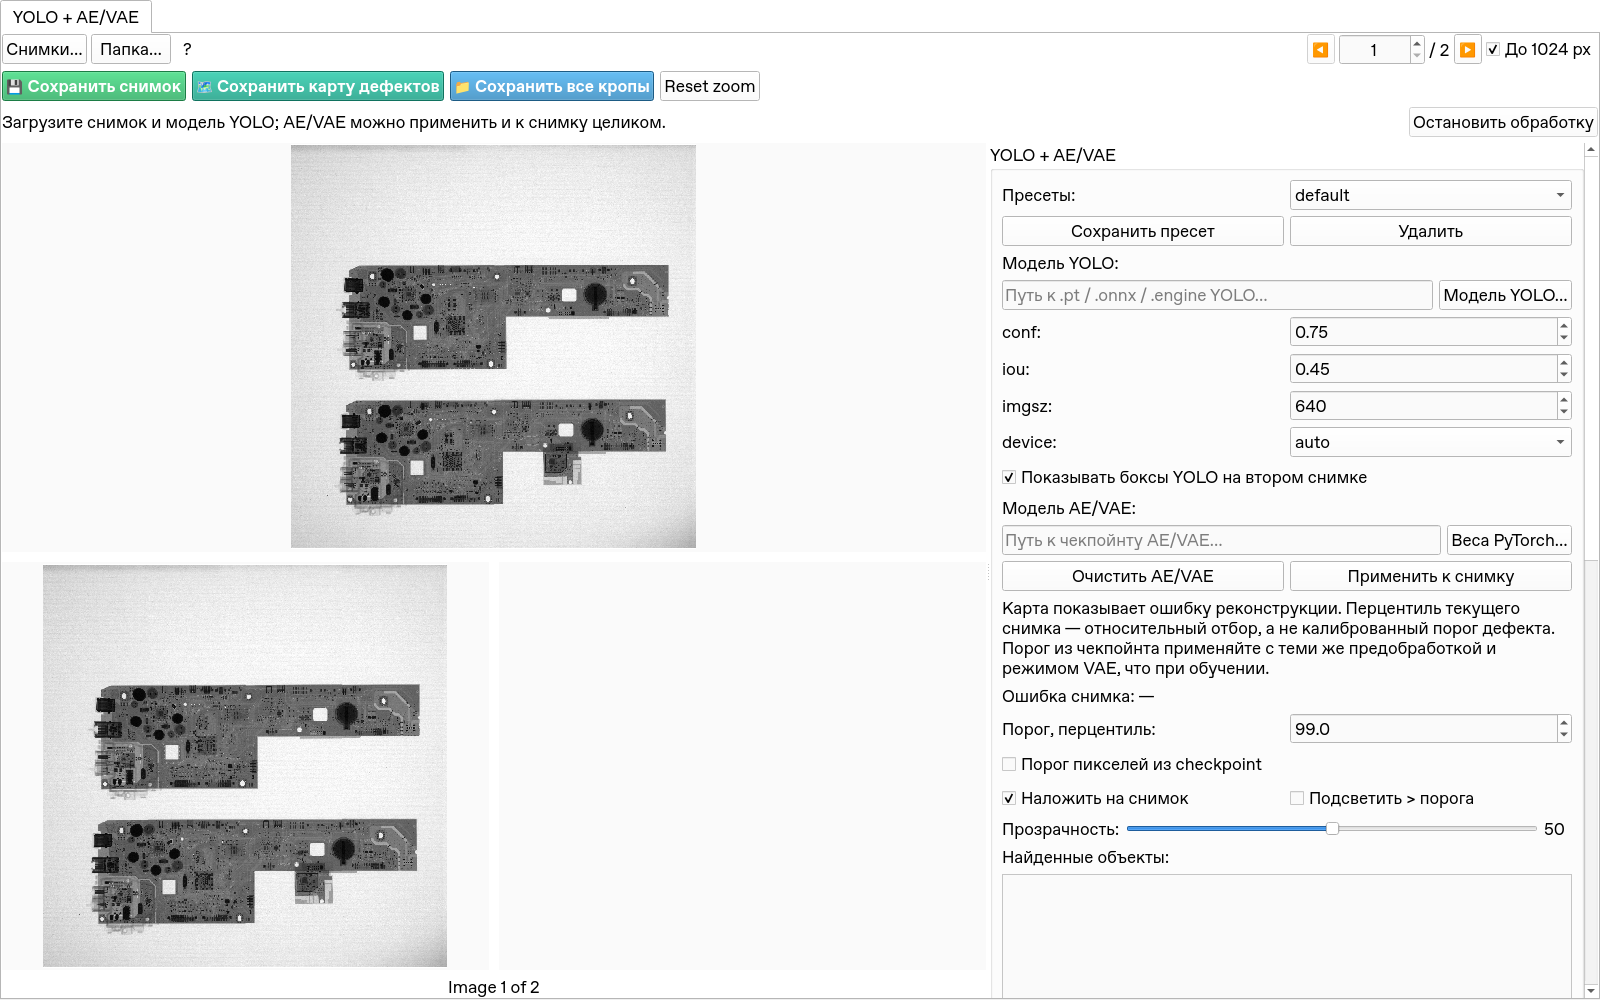
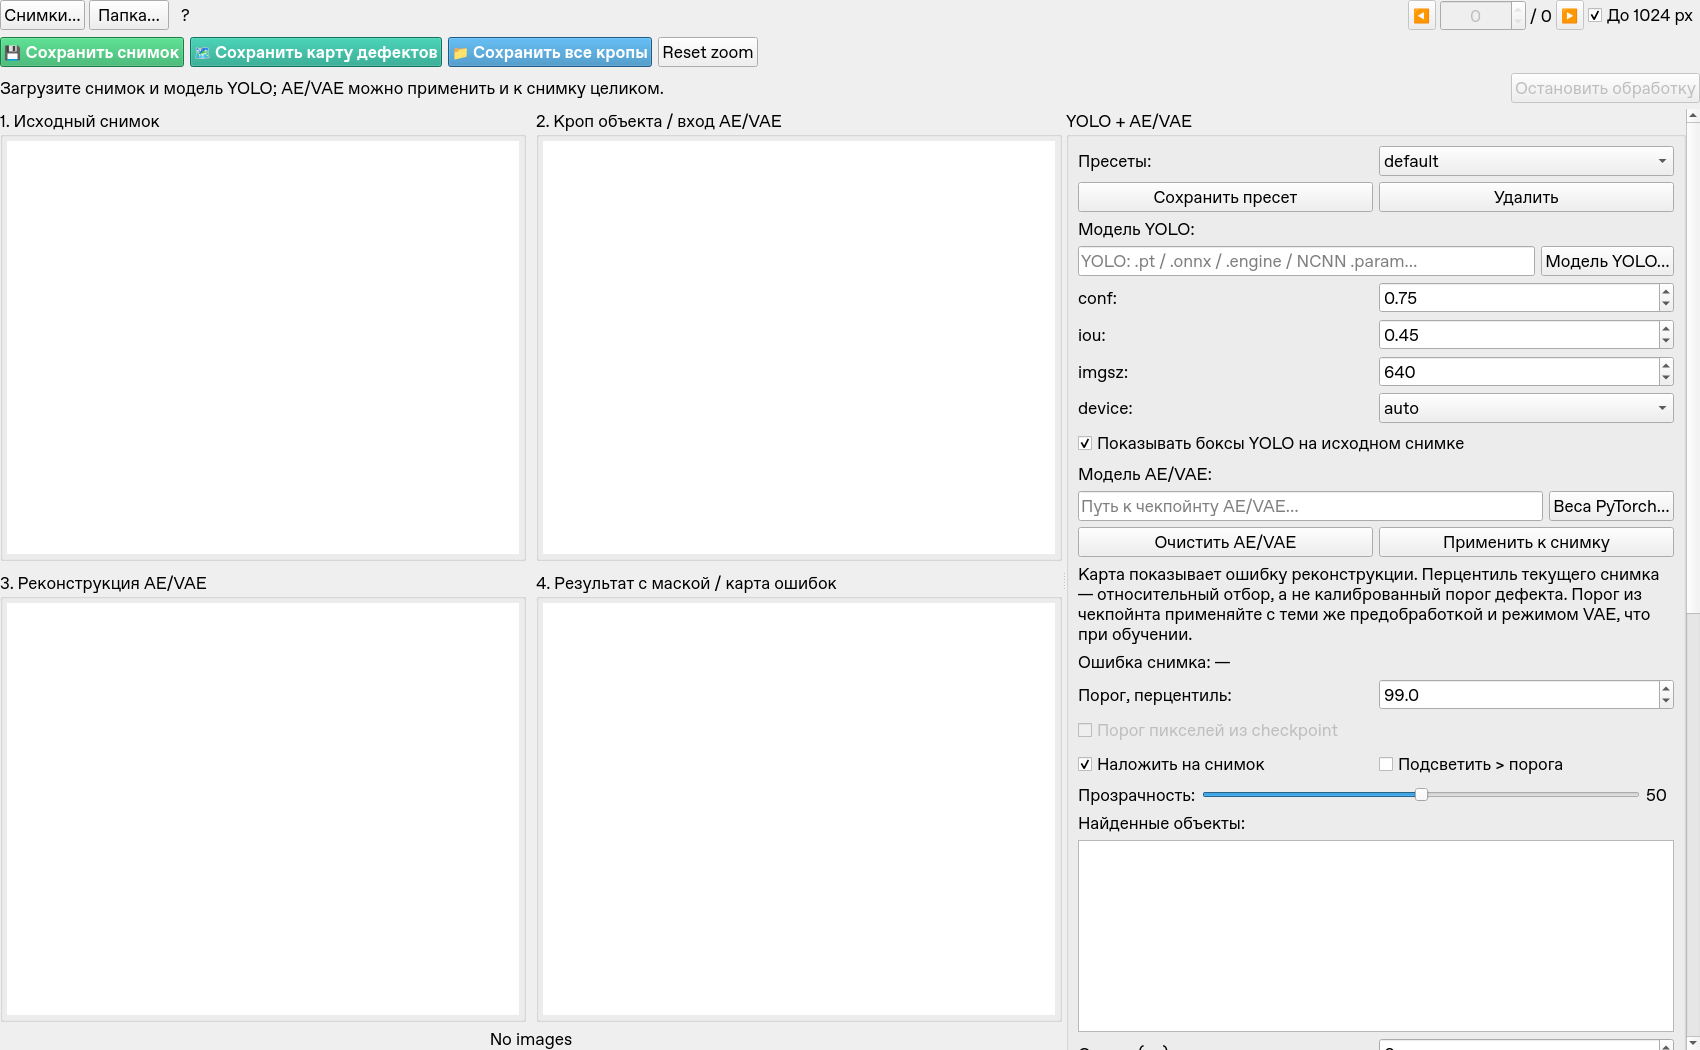
Show crop reconstruction in a four-panel AE results grid

Changed region(s): [[0.0, 0.0, 1.0, 1.0]]

diff --git a/ui_tabs/yolo_test_aeb_ui.py b/ui_tabs/yolo_test_aeb_ui.py
@@ -6,8 +6,8 @@ UI-слой вкладки YOLO + AE/VAE.
   • ImageNavigationWidget — загрузка/навигация;
   • в верхней панели сразу после блока загрузки — кнопки
     «Сохранить снимок» и «Сохранить карту дефектов»;
-  • 3 × SmartGraphicsView: сверху — YOLO-результат на всю ширину,
-    снизу слева — обработанный снимок, снизу справа — карта ошибок;
+  • 4 × DatasetReviewGraphicsView, сетка 2×2: снимок, кроп,
+    реконструкция и результат с маской/картой ошибок;
   • правая панель управления в QScrollArea;
   • лог с кнопкой переключения — в правой половине, под настройками.
 """
@@ -55,7 +55,7 @@ def setup_yolo_ae_vae_ui(parent):
     # Кнопки сохранения — сразу после блока загрузки изображений.
     parent.btn_save_image = QPushButton("💾 Сохранить снимок")
     parent.btn_save_image.setToolTip(
-        "Сохранить итоговое изображение из третьего окна:\n"
+        "Сохранить обработанный кроп из второго окна:\n"
         "после авто-обрезки, авто-доворота, ручных поворотов,\n"
         "морфологии по контуру объекта и инверсии."
     )
@@ -107,34 +107,47 @@ def setup_yolo_ae_vae_ui(parent):
     # ---------- Основной сплиттер ----------
     main_splitter = QSplitter(Qt.Horizontal)
 
-    # ----- Левая часть: 3 SmartGraphicsView (1 сверху, 2 снизу) -----
+    # ----- Результаты: исходный снимок / кроп / реконструкция / маска -----
     left_widget = QWidget()
     left_layout = QVBoxLayout(left_widget)
     left_layout.setContentsMargins(0, 0, 0, 0)
     grid = QGridLayout()
     grid.setSpacing(10)
 
-    # Верх: YOLO-результат — на всю ширину.
+    def add_result(view, title, row, column):
+        panel = QGroupBox(title)
+        layout = QVBoxLayout(panel)
+        layout.setContentsMargins(4, 4, 4, 4)
+        layout.addWidget(view)
+        grid.addWidget(panel, row, column)
+
+    # Верх слева: исходный снимок и найденные объекты YOLO.
     parent.yolo_view = DatasetReviewGraphicsView()
     parent.yolo_view.setMinimumSize(400, 300)
     parent.yolo_view.setSizePolicy(QSizePolicy.Expanding, QSizePolicy.Expanding)
-    grid.addWidget(parent.yolo_view, 0, 0, 1, 2)
+    add_result(parent.yolo_view, "1. Исходный снимок", 0, 0)
 
-    # Низ слева: обработанный снимок.
+    # Верх справа: кроп с выбранными преобразованиями, вход AE/VAE.
     parent.transformed_view = DatasetReviewGraphicsView()
     parent.transformed_view.selection_enabled = (
         False  # only pan/zoom, not object selection
     )
     parent.transformed_view.setMinimumSize(400, 300)
     parent.transformed_view.setSizePolicy(QSizePolicy.Expanding, QSizePolicy.Expanding)
-    grid.addWidget(parent.transformed_view, 1, 0)
+    add_result(parent.transformed_view, "2. Кроп объекта / вход AE/VAE", 0, 1)
+
+    parent.reconstruction_view = DatasetReviewGraphicsView()
+    parent.reconstruction_view.selection_enabled = False
+    parent.reconstruction_view.setMinimumSize(400, 300)
+    parent.reconstruction_view.setSizePolicy(QSizePolicy.Expanding, QSizePolicy.Expanding)
+    add_result(parent.reconstruction_view, "3. Реконструкция AE/VAE", 1, 0)
 
     # Низ справа: карта ошибок AE/VAE.
     parent.error_view = DatasetReviewGraphicsView()
     parent.error_view.selection_enabled = False  # only pan/zoom, not object selection
     parent.error_view.setMinimumSize(400, 300)
     parent.error_view.setSizePolicy(QSizePolicy.Expanding, QSizePolicy.Expanding)
-    grid.addWidget(parent.error_view, 1, 1)
+    add_result(parent.error_view, "4. Результат с маской / карта ошибок", 1, 1)
 
     grid.setRowStretch(0, 1)
     grid.setRowStretch(1, 1)
@@ -214,11 +227,11 @@ def setup_yolo_ae_vae_ui(parent):
     yolo_params.addWidget(parent.device_combo, 3, 1)
     controls_layout.addLayout(yolo_params)
 
-    parent.chk_show_boxes = QCheckBox("Показывать боксы YOLO на втором снимке")
+    parent.chk_show_boxes = QCheckBox("Показывать боксы YOLO на исходном снимке")
     parent.chk_show_boxes.setChecked(True)
     parent.chk_show_boxes.setToolTip(
-        "Влияет только на второй снимок (результат YOLO).\n"
-        "На третьем и четвёртом снимке боксы не рисуются."
+        "Влияет только на исходный снимок (окно 1).\n"
+        "На кропе, реконструкции и карте ошибок боксы не рисуются."
     )
     controls_layout.addWidget(parent.chk_show_boxes)
 

diff --git a/tabs/yolo_test_aeb.py b/tabs/yolo_test_aeb.py
@@ -470,7 +470,7 @@ class YoloInspectWindow(QMainWindow):
         self.current_detections = []
         self._manual_ops = []
         self._clear_ae_view()
-        for view in (self.yolo_view, self.transformed_view, self.error_view):
+        for view in (self.yolo_view, self.transformed_view, self.reconstruction_view, self.error_view):
             view.set_annotations([], 0, 0)
             view.set_pixmap(numpy_to_qpixmap(None))
         self._sync_processing_state()
@@ -479,7 +479,7 @@ class YoloInspectWindow(QMainWindow):
         self.update_navigation_state()
 
     def reset_all_zooms(self):
-        for view in (self.yolo_view, self.transformed_view, self.error_view):
+        for view in (self.yolo_view, self.transformed_view, self.reconstruction_view, self.error_view):
             view.reset_view()
 
     def closeEvent(self, event):
@@ -744,9 +744,10 @@ class YoloInspectWindow(QMainWindow):
             f"aeb_transformed_{base_name}{suf}"
         )
         self.error_view.set_suggested_save_name(f"aeb_errmap_{base_name}{suf}")
+        self.reconstruction_view.set_suggested_save_name(f"aeb_reconstruction_{base_name}{suf}")
 
     # --------------------------------------------------------
-    # 2-й снимок: YOLO-вид
+    # 1-й снимок: YOLO-вид
     # --------------------------------------------------------
     def _detections_to_unified(self, img_w, img_h):
         """Translate YOLO dictionaries to class-ID-based shared annotations."""
@@ -798,7 +799,7 @@ class YoloInspectWindow(QMainWindow):
             self._syncing_yolo_selection = False
 
     # --------------------------------------------------------
-    # 3-й снимок: итоговое изображение без боксов
+    # 2-й снимок: обработанный кроп без боксов
     # --------------------------------------------------------
     def _rebuild_displayed(self):
         self._cancel_task("_ae_task")
@@ -1226,6 +1227,7 @@ class YoloInspectWindow(QMainWindow):
         self._ae_base_bgr = None
         self._ae_threshold = float("nan")
         self.ae_score_label.setText("Ошибка снимка: —")
+        self.reconstruction_view.set_pixmap(numpy_to_qpixmap(None))
         self.error_view.set_pixmap(numpy_to_qpixmap(None))
 
     def apply_ae(self, silent=False):
@@ -1264,6 +1266,7 @@ class YoloInspectWindow(QMainWindow):
             self._ae_err_hw = result["error"]
             self._ae_valid_region = result["valid_region"]
             self._ae_base_bgr = image
+            self.reconstruction_view.set_pixmap(numpy_to_qpixmap(result["reconstruction_bgr"]))
             self._ae_threshold = self._compute_threshold()
             score = result["image_score"]
             text = f"Средняя ошибка снимка (MAE): {score:.6f}"

diff --git a/tests/test_autoencoders.py b/tests/test_autoencoders.py
@@ -69,6 +69,36 @@ def write_dataset(root, count=5):
 
 
 class AutoencoderContracts(unittest.TestCase):
+    def test_reconstruction_display_preserves_color_geometry_and_raw_error(self):
+        class Identity(torch.nn.Module):
+            def forward(self, x):
+                return x[:, :channels], None
+
+        for channels in (1, 3):
+            for version in ('legacy-opencv-v1', 'ae-pil-v1'):
+                for aspect in (False, True):
+                    with self.subTest(channels=channels, version=version, aspect=aspect):
+                        image = np.full((12, 70, 3), 73, np.uint8)
+                        if channels == 3:
+                            image[:] = (21, 87, 149)  # BGR, not RGB
+                        cfg = dict(in_channels=channels, out_channels=channels,
+                                   img_h=32, img_w=48, keep_aspect=aspect,
+                                   preprocessing_version=version, pad_value=255,
+                                   use_edge_channel=True, model_in_channels=channels+1)
+                        result = infer_autoencoder(image, Identity(), cfg, 'cpu')
+                        self.assertEqual(result['reconstruction_bgr'].dtype, np.uint8)
+                        np.testing.assert_array_equal(result['reconstruction_bgr'], image)
+                        self.assertEqual(result['image_score'], 0)
+
+        class Unbounded(torch.nn.Module):
+            def forward(self, x):
+                return torch.full_like(x, 2)
+
+        result = infer_autoencoder(np.zeros((12, 70, 3), np.uint8), Unbounded(),
+                                   dict(in_channels=3, img_h=32, img_w=48), 'cpu')
+        self.assertTrue(np.all(result['reconstruction_bgr'] == 255))
+        self.assertEqual(result['image_score'], 2)  # display clipping cannot alter MAE
+
     def test_all_model_state_schemas_match_original_training_scripts(self):
         fixtures = json.loads(
             (ROOT / "tests/fixtures/autoencoder_architectures.json").read_text()

diff --git a/utils_new/autoencoders/inference.py b/utils_new/autoencoders/inference.py
@@ -1,5 +1,6 @@
 """Validated reconstruction, pixel anomaly maps and image scores; no Qt."""
 
+import cv2
 import numpy as np
 import torch
 from utils_new.autoencoders.preprocessing import preprocess_image_for_ae
@@ -32,7 +33,8 @@ def infer_autoencoder(image, model, cfg, device, cancel=None):
         in_channels = int(cfg.get("in_channels", 3))
         expected = int(cfg.get("out_channels", in_channels))
         if (
-            reconstruction.shape[1] != expected
+            expected not in (1, 3)
+            or reconstruction.shape[1] != expected
             or expected > in_channels
             or reconstruction.shape[2:] != x.shape[1:]
         ):
@@ -52,7 +54,20 @@ def infer_autoencoder(image, model, cfg, device, cancel=None):
     if not np.isfinite(error).all():
         raise ValueError("Карта ошибки содержит NaN/Inf.")
     x0, y0, x1, y1 = valid_region
+    # Display the image channels only, without letterbox padding. Keep the
+    # unmodified float output above for MAE; clipping is display-only.
+    reconstructed = reconstruction[0, :, y0:y1, x0:x1].permute(1, 2, 0).numpy()
+    reconstructed = np.rint(np.clip(reconstructed, 0, 1) * 255).astype(np.uint8)
+    reconstructed = cv2.cvtColor(
+        reconstructed,
+        cv2.COLOR_GRAY2BGR if expected == 1 else cv2.COLOR_RGB2BGR,
+    )
+    reconstructed = cv2.resize(
+        reconstructed, (image.shape[1], image.shape[0]), interpolation=cv2.INTER_LINEAR
+    )
+    checkpoint()
     return {
+        "reconstruction_bgr": reconstructed,
         "image_score": float(error[y0:y1, x0:x1].mean()),
         "error_metric": "mae",
         "error": error,

diff --git a/tests/test_legacy_tabs_migration.py b/tests/test_legacy_tabs_migration.py
@@ -353,9 +353,12 @@ with tempfile.TemporaryDirectory() as directory:
  w._load_images([str(good),str(bad)]);w.update_timer.stop();w.ae_model=Identity();w.ae_cfg=dict(in_channels=3,img_h=32,img_w=48)
  w.btn_apply_ae.click();until(lambda:w._ae_task is None)
  assert w._ae_err_hw.shape==(32,48) and w._error_bgr is not None
+ assert not w.reconstruction_view.pixmap_item.pixmap().isNull()
+ assert w.reconstruction_view.pixmap_item.pixmap().width()==w.displayed_image.shape[1]
+ assert w.reconstruction_view.pixmap_item.pixmap().height()==w.displayed_image.shape[0]
  w.ae_model=Bad();w.btn_apply_ae.click();until(lambda:w._ae_task is None)
  assert 'Выход AE/VAE' in w.processing_status.text() and w._ae_err_hw is None
- assert w.btn_apply_ae.isEnabled()
+ assert w.btn_apply_ae.isEnabled() and w.reconstruction_view.pixmap_item.pixmap().isNull()
  w.goto_image(2)
  assert w.original_image is None and w.displayed_image is None and w._error_bgr is None
  assert w.yolo_view.pixmap_item.pixmap().isNull() and not w.current_detections

diff --git a/docs/yolo_aeb.md b/docs/yolo_aeb.md
@@ -2,14 +2,19 @@
 
 [README](../README.md)
 
-![Снимок и панели YOLO и AE/VAE до загрузки моделей](image/yolo_aeb.png)
+![Четыре панели результатов YOLO и AE/VAE](image/yolo_aeb.png)
 
 Вход: снимки/папка, отдельные веса YOLO и checkpoint AE/VAE.
 
 1. Загрузите YOLO, выберите объект и параметры кропа/доворота.
 2. Настройте преобразования и морфологию, проверьте обработанный кроп.
 3. Загрузите AE/VAE и примените к кропу либо целому снимку.
-4. Проверьте среднюю ошибку снимка и карту ошибок. Отдельно сохраните снимок, карту или кропы.
+4. Сравните четыре панели **2×2**: исходный снимок (слева сверху), кроп объекта
+   (справа сверху), реконструкция кропа (слева снизу), результат с наложенной
+   маской/картой ошибок (справа снизу). Без выбранного объекта входом служит весь снимок.
+5. Проверьте среднюю ошибку и порог. Реконструкция показана без padding, в размере
+   входного кропа; её можно сохранить через меню изображения. Изменение порога
+   или прозрачности обновляет маску без повторного инференса.
 
 Карта показывает MAE реконструкции, а не вероятность дефекта. Новые checkpoint
 содержат два порога: средней ошибки снимка и ошибки отдельных пикселей.
